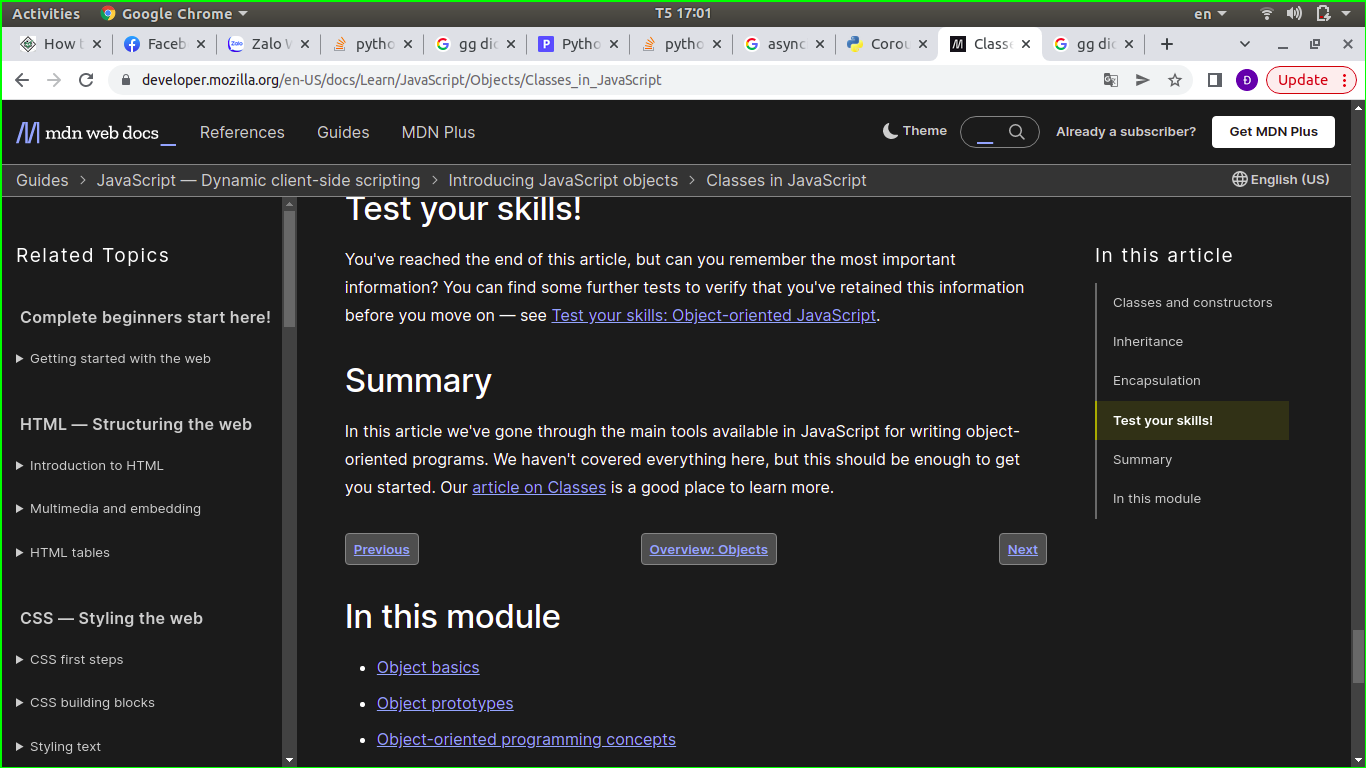
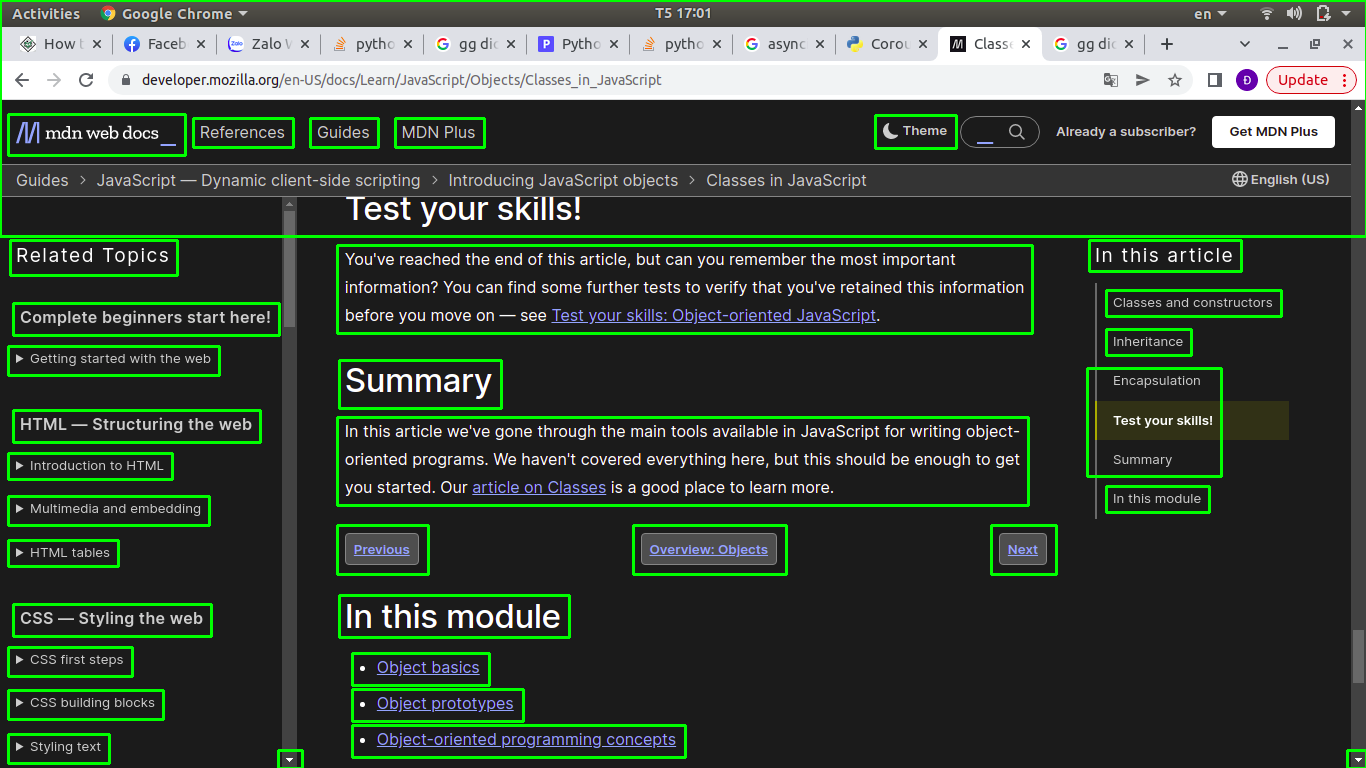
Update

diff --git a/main.py b/main.py
@@ -1,69 +1,125 @@
-import pytesseract
-from pytesseract import Output
+# Import required packages
 import cv2
-import socket
-
-input = []
-isBusy = False
-
-sock = socket.socket(socket.AF_INET, socket.SOCK_DGRAM)
-serverAddress = ('localhost', 2021)
+import numpy as np
+import pytesseract
 
 
-def listening():
-    global input
+
+
+def isInclude(p, c):
+    if (p[0] <= c[0] 
+        and p[1] <= c[1] 
+        and p[2] >= c[2] 
+        and p[3] >= c[3]
+    ):
+        return True
+    return False
+
+def convertToRect(a):
+    r = []
+    for i in a:
+        r.append(cv2.boundingRect(i))
+ 
+    return r
+
+def filterBox(a, b):
+
+    r0 = convertToRect(a)
+    r1 = convertToRect(b)
+
+    for i in r0:
+        for j in r1:
+            if isInclude(i, j):
+                r0.remove(i)
+                break
+    for i in r1:
+        for j in r0:
+            if isInclude(i, j):
+                r1.remove(i)
+                break
+    return r0 + r1
+
+
+
+
+# Mention the installed location of Tesseract-OCR in your system
+img_path = '1.png'
+# Read image from which text needs to be extracted
+img = cv2.imread("images/" + img_path)
+
+# Preprocessing the image starts
+
+# Convert the image to gray scale
+gray = cv2.cvtColor(img, cv2.COLOR_BGR2GRAY)
+
+# cv2.imwrite('gray2.jpg', gray)
+
+# Performing OTSU threshold
+ret, thresh0 = cv2.threshold(gray, 0, 255, cv2.THRESH_OTSU | cv2.THRESH_BINARY_INV)
+
+thresh1 = np.copy(thresh0)
+
+for i in range(len(thresh0)):
+    for j in range(len(thresh0[i])):
+        if thresh0[i][j] == 0:
+            thresh1[i][j] = 255
+        else:
+            thresh1[i][j] = 0
+            
+
+
+text = pytesseract.image_to_string(gray)
+print(text)
+
+
+
+rect_kernel = cv2.getStructuringElement(cv2.MORPH_RECT, (18, 18))
+
+# print(thresh0)
+# print(type(thresh0))
+# print(type(thresh1))
+# Applying dilation on the threshold image
+dilation0 = cv2.dilate(thresh0, rect_kernel, iterations = 1)
+dilation1 = cv2.dilate(thresh1, rect_kernel, iterations = 1)
+
+# # Finding contours
+contours0, hierarchy = cv2.findContours(dilation0, cv2.RETR_EXTERNAL,
+												cv2.CHAIN_APPROX_NONE)
+contours1, hierarchy1 = cv2.findContours(dilation1, cv2.RETR_EXTERNAL,
+												cv2.CHAIN_APPROX_NONE)
+# print(len(contours0))
+# print(len(contours1))
+
     
-    while True:
-        data = sock.recvfrom(4096)
-        if data:
-            input.append(data.decode()) 
-            if not isBusy:
-                imageProcessing()
+
+
+# r_len = len(r)
+# contours0_len = len(contours0)
+# print(len(r[0]))
+# # Creating a copy of image
+im2 = img.copy()
+
+
+# im2_size = im2.shape
+
+# Looping through the identified contours
+# Then rectangular part is cropped and passed on
+# to pytesseract for extracting text from it
+# Extracted text is then written into the text file
+
+r = filterBox(contours0, contours1)
+
+for i in r:
+    x, y, w, h = i
+  
+    cropped = np.copy(img[y:y + h, x:x + w])
+
+    text = pytesseract.image_to_string(cropped)
+
+    rect = cv2.rectangle(img, (x, y), (x + w, y + h), (0, 255, 0), 2)
+    print(len(text), ': ' + text)
 
 
 
 
-def imageProcessing():
-    global input
-    global isBusy
-
-    isBusy = True
-
-    print("Scanning: ",input[0])
-
-    if len(input) > 0:
-        data = {}
-        link = input[0]
-        img = cv2.imread('input/' + link)
-        
-        gray = cv2.cvtColor(img, cv2.COLOR_BGR2GRAY)
-        ret, thresh1 = cv2.threshold(gray, 0, 255, cv2.THRESH_OTSU | cv2.THRESH_BINARY_INV)
-        rect_kernel = cv2.getStructuringElement(cv2.MORPH_RECT, (18, 18))
-        
-        dilation = cv2.dilate(thresh1, rect_kernel, iterations = 1)
-        contours, hierarchy = cv2.findContours(dilation, cv2.RETR_EXTERNAL,
-                                                        cv2.CHAIN_APPROX_NONE)
-        im2 = img.copy()
-        
-        for cnt in contours:
-            x, y, w, h = cv2.boundingRect(cnt)
-            rect = cv2.rectangle(im2, (x, y), (x + w, y + h), (0, 255, 0), 2)
-            cropped = im2[y:y + h, x:x + w]
-            text = pytesseract.image_to_string(cropped)
-            data[''.join(map(str, [x, y, x+w, y+h]))] = text
-        
-        cv2.imwrite('output/' + link, im2)
-        sock.sendto(str(data).encode(), serverAddress)
-
-    input.pop(0)
-
-    if len(input) > 0:
-        imageProcessing()
-    else:
-        isBusy = False
-
-    print("     -->Finished: ", link)
-
-
-
-listening()
+cv2.imwrite('output/' + img_path,img)
